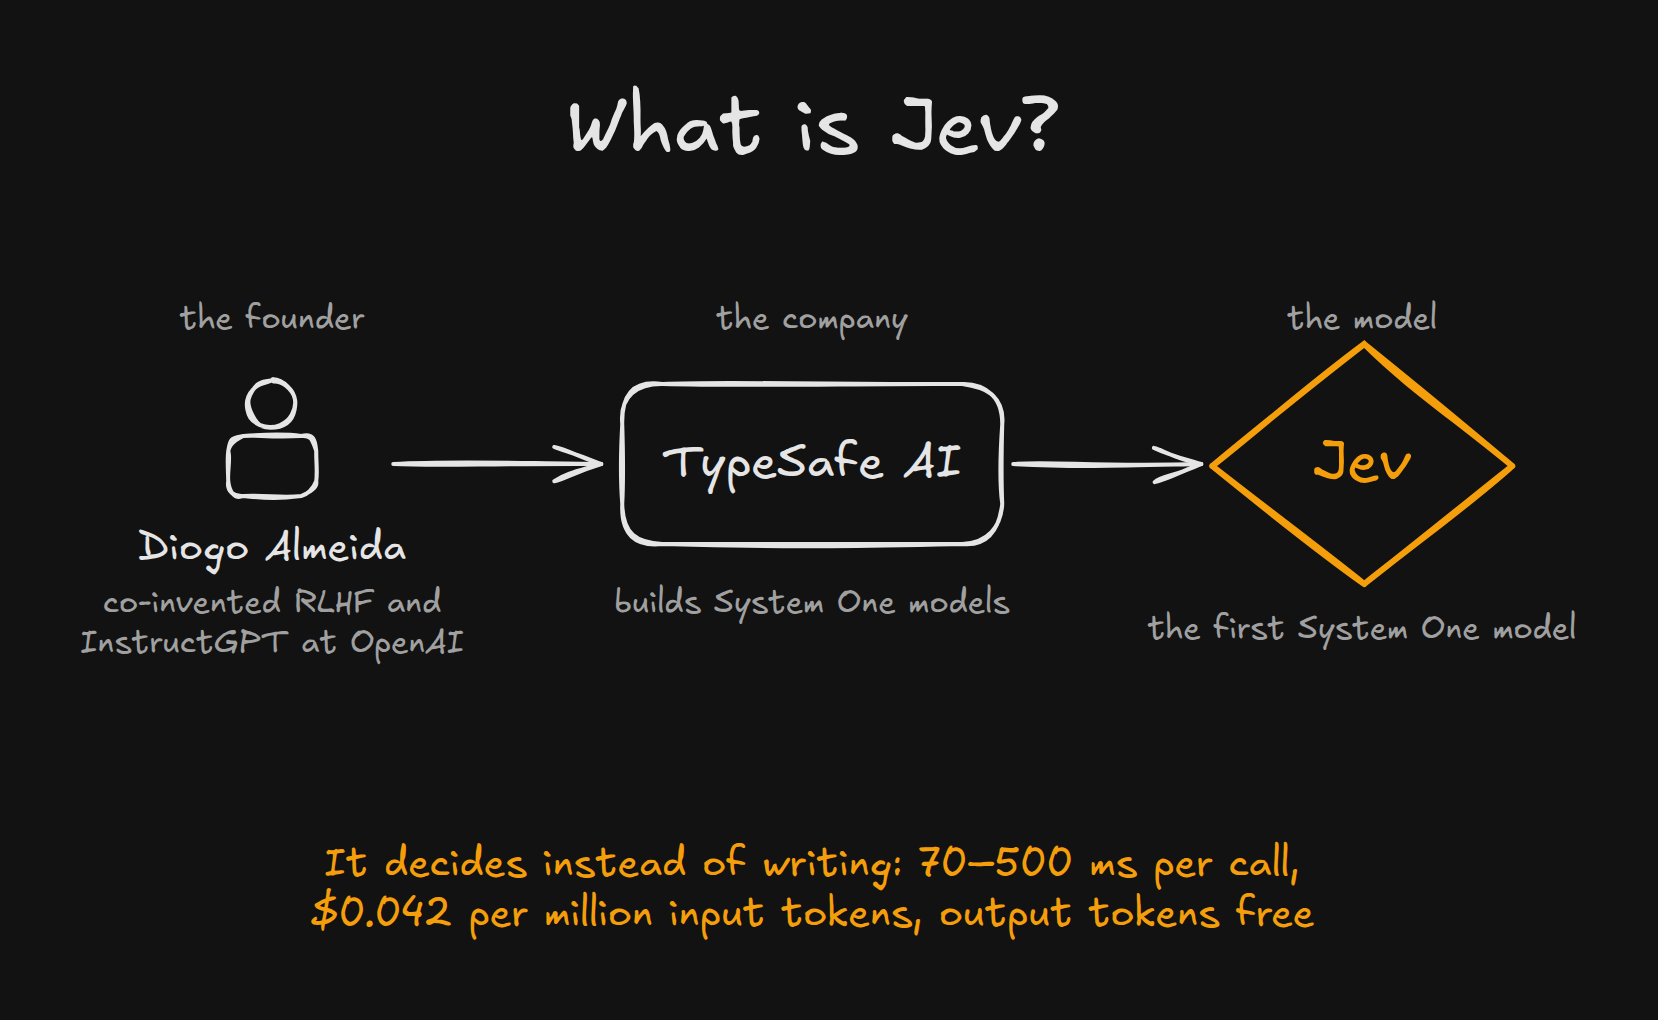
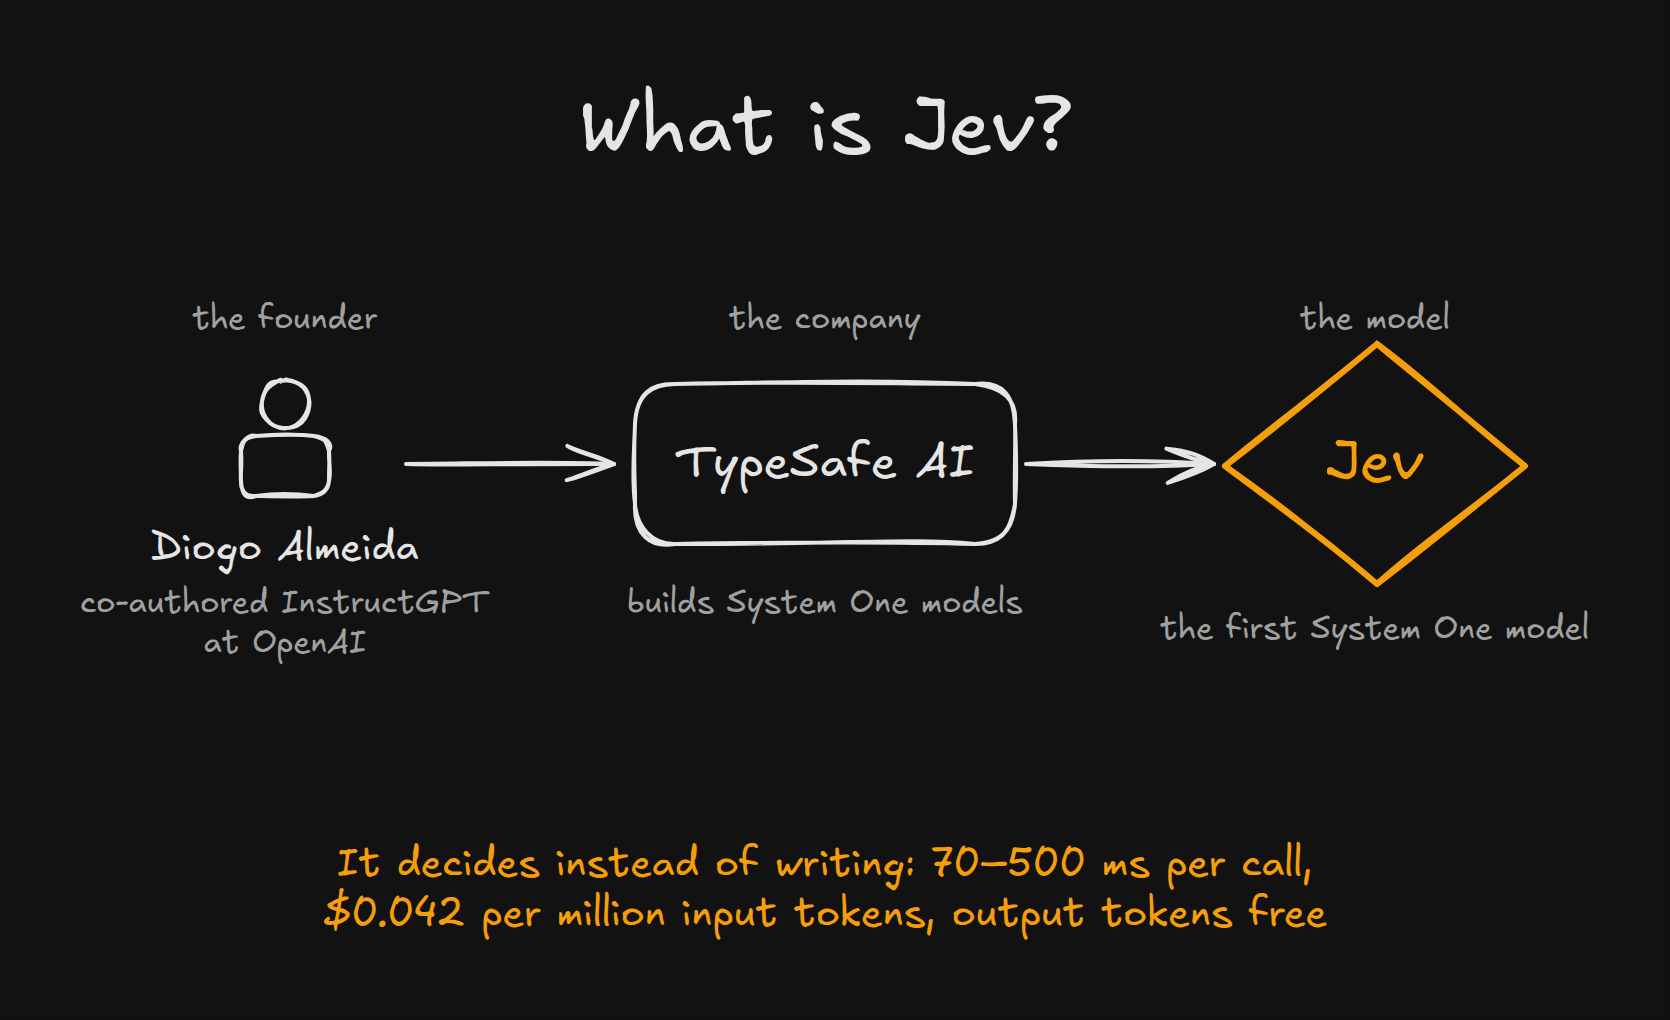
docs(blog): correct four claims in the Jev router post
- Diogo Almeida co-authored OpenAI's InstructGPT paper; he isn't an author
  of the paper that introduced RLHF. The what-is-jev.png diagram said the
  same and is re-rendered.
- Only one of the other Jev routers keeps its first pick for the session.
  The paragraph now describes them without counts, and splits in two.
- On a Claude subscription, Claude Code keeps the main conversation's
  prompt cache for an hour, so the 10-minute reset isn't a point where the
  cache is cold anyway.
- The LinkedIn copy no longer says the ratchet never throws away the prompt
  cache: moving a session up switches models.

diff --git a/content/blog/route-every-claude-code-message-to-the-right-model-with-jev/index.md b/content/blog/route-every-claude-code-message-to-the-right-model-with-jev/index.md
@@ -22,7 +22,7 @@ schema_type: auto
 # Character limits: X ~280, Bluesky 300, LinkedIn 3000. Leave blank to skip a platform.
 social:
     twitter: "Not every Claude Code message needs Opus. jev-router asks Jev, TypeSafe's System One model, which Claude model each message needs, in a few hundred milliseconds and for a fraction of a cent. Here's how it decides:"
-    linkedin: "Not every message you send to Claude Code needs the most capable model, but switching models by hand before every message isn't realistic. Jev, TypeSafe AI's new System One model, doesn't write text: it answers typed questions in a few hundred milliseconds, and its output is free.\n\nI built jev-router, an open source router that asks Jev which Claude model each of your messages needs and sends it there. It only asks when you write a message, and within a session it only moves up, so it never throws away your prompt cache.\n\nHere's how it decides, and how to try it with one command:"
+    linkedin: "Not every message you send to Claude Code needs the most capable model, but switching models by hand before every message isn't realistic. Jev, TypeSafe AI's new System One model, doesn't write text: it answers typed questions in a few hundred milliseconds, and its output is free.\n\nI built jev-router, an open source router that asks Jev which Claude model each of your messages needs and sends it there. It only asks when you write a message, and within a session it only moves up, so a quick follow-up doesn't throw away your prompt cache.\n\nHere's how it decides, and how to try it with one command:"
     bluesky: "Not every Claude Code message needs Opus. jev-router asks Jev, TypeSafe's System One model, which Claude model each message needs, in a few hundred milliseconds and for a fraction of a cent. How it works, and how to try it:"
 ---
 
@@ -34,7 +34,7 @@ Not every message you send to Claude Code needs the most capable model. A quick 
 
 {{< x user="CompleteSkeptic" id="2099925682726002904" >}}
 
-TypeSafe AI [released Jev](https://typesafe.ai/blog/introducing-system-one-models-and-jev) in September 2026. Its founder, Diogo Almeida, co-invented RLHF and InstructGPT at OpenAI, the research that led to ChatGPT.
+TypeSafe AI [released Jev](https://typesafe.ai/blog/introducing-system-one-models-and-jev) in September 2026. Its founder, Diogo Almeida, co-authored OpenAI's InstructGPT paper, the research behind ChatGPT.
 
 ![Diagram: Diogo Almeida founded TypeSafe AI, which built Jev, the first System One model. Jev answers in 70–500 ms and costs $0.042 per million input tokens, with free output tokens.](what-is-jev.png)
 
@@ -56,7 +56,9 @@ Claude Code runs every message in a session on the model you picked. Sonnet 5 an
 
 Jev makes the decision cheap enough to ask every time. A routing call sends Jev a few hundred tokens that describe your message and the session, and costs about $0.00003. jev-router puts that decision in front of every message you write in Claude Code.
 
-That's the use case I wanted to try. My idea was to let the prompt pick the model, so a request to rename a variable lands on Haiku 4.5 and a request to redesign a service lands on Opus 5.5, without me switching models in between. The Jev routers I found worked differently. Two decided once, when the session started, and the other two asked Jev on every request, tool calls included, and could switch models halfway through a task. Every one of those switches throws the prompt cache away. I wanted a router that decides again each time I write a message and never moves a session down, and I wanted to watch those decisions while I type. So I built jev-router.
+That's the use case I wanted to try. My idea was to let the prompt pick the model, so a request to rename a variable lands on Haiku 4.5 and a request to redesign a service lands on Opus 5.5, without me switching models in between.
+
+The Jev routers I found worked differently. One kept the model it picked when the session started, and the others could switch models halfway through a task or move a session back down. Every one of those switches throws the prompt cache away. I wanted a router that decides again each time I write a message and never moves a session down, and I wanted to watch those decisions while I type. So I built jev-router.
 
 {{< github-card repo="dirien/jev-router" >}}
 
@@ -88,7 +90,7 @@ Treat the bars as a starting point. [One calibration study](https://github.com/s
 
 Once a session reaches Opus 5.5, a quick "thanks!" doesn't send it back to Haiku 4.5. A new message can raise the tier, but it never lowers it. Anthropic's prompt cache belongs to one model, so a switch starts the next request cold, and an agent's requests are mostly cache reads. Handing half-done work to another model doesn't pay off either: in [an AWS study of 500 SWE-bench Verified tasks](https://arxiv.org/abs/2608.24358), handing a Haiku 4.5 transcript to Opus 4.7 recovered only 47% of the quality gap, at $1.61 per task against $0.72 for starting on Opus.
 
-A session gets a fresh decision when its cache is cold anyway: after 10 minutes without traffic, after Claude Code compacts it, or when you start over with `/clear`.
+A session gets a fresh decision after 10 minutes without traffic, after Claude Code compacts it, or when you start over with `/clear`.
 
 You can still steer. Switching to another model family with `/model` pins that family's tier, and `#fast`, `#balanced`, or `#frontier` (or `#max` for Fable 5.1) as the first or last word of a message asks for a tier. A scanner also checks every message for secrets before anything leaves your machine, and a hit keeps the session on trusted models, whatever Jev says.
 
